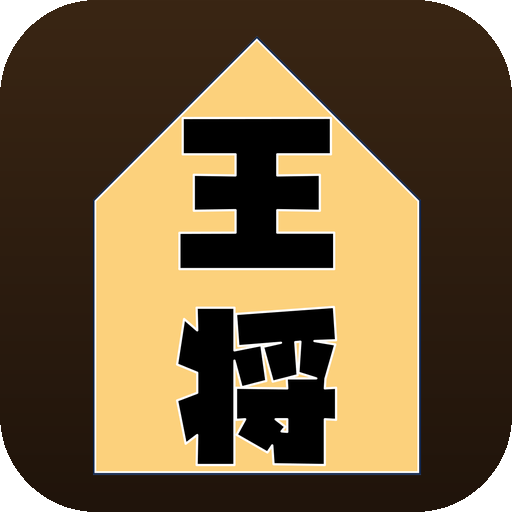
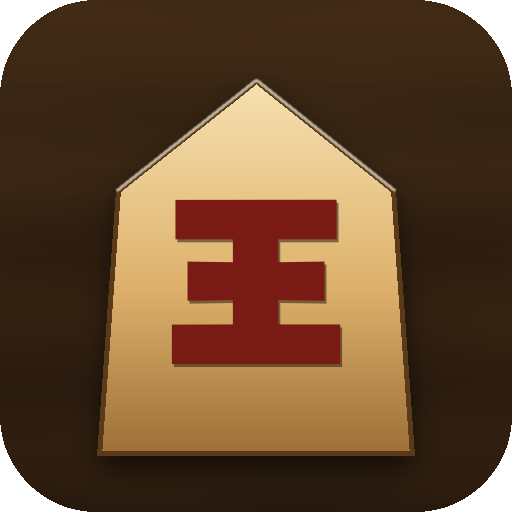
アプリアイコンをキルゴUフォントの「王」文字で作り直し、ロゴと書体を統一
木目背景+金の駒ペンタゴンは踏襲しつつ、文字を新しいブランドフォントに変更。
アイコン生成スクリプトはgenerate_icon.pyに一本化(旧版・王将画像版は削除)。

diff --git a/generate_icon.py b/generate_icon.py
@@ -1,16 +1,19 @@
-"""Generate Mizunara app icons: a wood shogi koma (piece) on a warm wood-grain background."""
+"""Regenerate the app icon: gold koma pentagon on the wood background, with the
+王 glyph rendered in the same GN-KillGothic-U font used for the logo wordmark.
+The font file itself is NOT bundled in the repo (license asks not to redistribute
+the file) - this script expects it to be available locally at FONT_PATH.
+"""
 import math
 from PIL import Image, ImageDraw, ImageFont, ImageFilter
 
-SIZE = 512
-FONT_PATH = r"C:\Windows\Fonts\yumindb.ttf"
+FONT_PATH = r"C:\Users\user\AppData\Local\Microsoft\Windows\Fonts\GN-KillGothic-U-KanaNA.ttf"
 
 
 def lerp(a, b, t):
     return a + (b - a) * t
 
 
-def make_background(size):
+def wood_bg(size):
     img = Image.new("RGB", (size, size))
     px = img.load()
     top = (58, 38, 20)
@@ -23,7 +26,6 @@ def make_background(size):
         for x in range(size):
             px[x, y] = (r, g, b)
 
-    # subtle wood grain: wavy horizontal lines
     grain = Image.new("L", (size, size), 0)
     gpx = grain.load()
     for y in range(size):
@@ -34,9 +36,7 @@ def make_background(size):
             gpx[x, y] = max(0, min(60, int(v)))
     grain = grain.filter(ImageFilter.GaussianBlur(1.2))
     img = Image.composite(Image.new("RGB", (size, size), (90, 60, 30)), img, grain)
-
-    # rounded-square mask with soft vignette corners handled by caller
-    return img
+    return img.convert("RGBA")
 
 
 def rounded_mask(size, radius):
@@ -47,7 +47,6 @@ def rounded_mask(size, radius):
 
 
 def koma_polygon(cx, cy, w, h):
-    # pentagon "house" shape pointing up, like a shogi piece
     top = (cx, cy - h * 0.52)
     right_shoulder = (cx + w * 0.44, cy - h * 0.22)
     bottom_right = (cx + w * 0.5, cy + h * 0.5)
@@ -57,11 +56,8 @@ def koma_polygon(cx, cy, w, h):
 
 
 def draw_koma(img, cx, cy, w, h):
-    layer = Image.new("RGBA", img.size, (0, 0, 0, 0))
-    d = ImageDraw.Draw(layer)
     poly = koma_polygon(cx, cy, w, h)
 
-    # soft drop shadow
     shadow = Image.new("RGBA", img.size, (0, 0, 0, 0))
     sd = ImageDraw.Draw(shadow)
     shifted = [(x, y + 14) for x, y in poly]
@@ -69,7 +65,6 @@ def draw_koma(img, cx, cy, w, h):
     shadow = shadow.filter(ImageFilter.GaussianBlur(14))
     img.alpha_composite(shadow)
 
-    # gradient-filled piece body via vertical bands
     top_y = min(p[1] for p in poly)
     bot_y = max(p[1] for p in poly)
     grad = Image.new("RGBA", img.size, (0, 0, 0, 0))
@@ -94,7 +89,6 @@ def draw_koma(img, cx, cy, w, h):
     md.polygon(poly, fill=255)
     img.paste(grad, (0, 0), mask)
 
-    # bevel edge highlight
     outline = Image.new("RGBA", img.size, (0, 0, 0, 0))
     od = ImageDraw.Draw(outline)
     od.polygon(poly, outline=(90, 58, 24, 255), width=5)
@@ -117,20 +111,19 @@ def draw_char(img, cx, cy, text, size, color):
     w = bbox[2] - bbox[0]
     h = bbox[3] - bbox[1]
     pos = (cx - w / 2 - bbox[0], cy - h / 2 - bbox[1])
-    # subtle engraved shadow then main stroke
     d.text((pos[0] + 2, pos[1] + 3), text, font=font, fill=(30, 16, 6, 130))
     d.text(pos, text, font=font, fill=color)
     img.alpha_composite(layer)
 
 
 def build(size, radius, maskless=False):
-    bg = make_background(size)
-    img = bg.convert("RGBA")
+    bg = wood_bg(size)
+    img = bg
 
     cx, cy = size * 0.5, size * 0.53
     w, h = size * 0.62, size * 0.72
     draw_koma(img, cx, cy, w, h)
-    draw_char(img, cx, cy + size * 0.02, "王", int(size * 0.34), (120, 26, 20, 255))
+    draw_char(img, cx, cy + size * 0.02, "王", int(size * 0.34), (122, 26, 20, 255))
 
     if not maskless:
         mask = rounded_mask(size, radius)
@@ -141,14 +134,7 @@ def build(size, radius, maskless=False):
 
 
 if __name__ == "__main__":
-    icon512 = build(512, 96)
-    icon512.save("icons/icon-512.png")
-
-    icon192 = build(192, 36)
-    icon192.save("icons/icon-192.png")
-
-    # maskable icon: full-bleed background, no rounding (safe-zone padding built into layout)
-    maskable = build(512, 0, maskless=True)
-    maskable.save("icons/icon-maskable-512.png")
-
+    build(512, 96).save("icons/icon-512.png")
+    build(192, 36).save("icons/icon-192.png")
+    build(512, 0, maskless=True).save("icons/icon-maskable-512.png")
     print("icons written")
